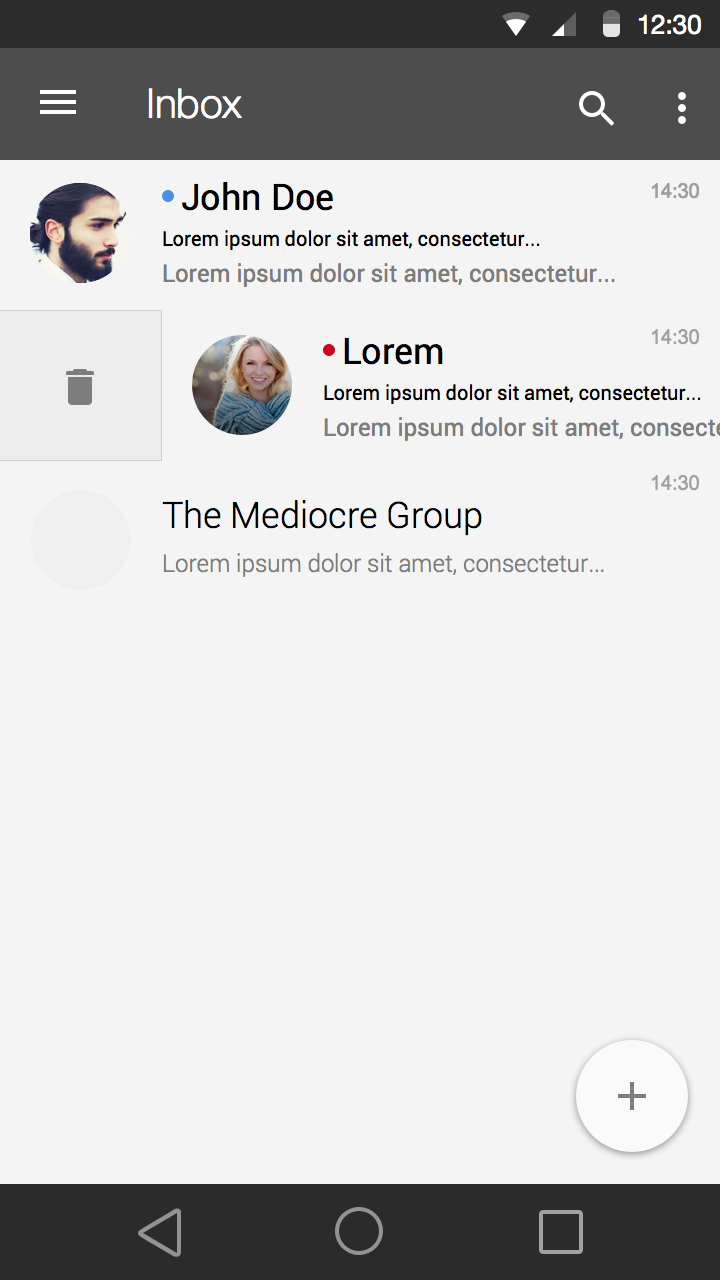
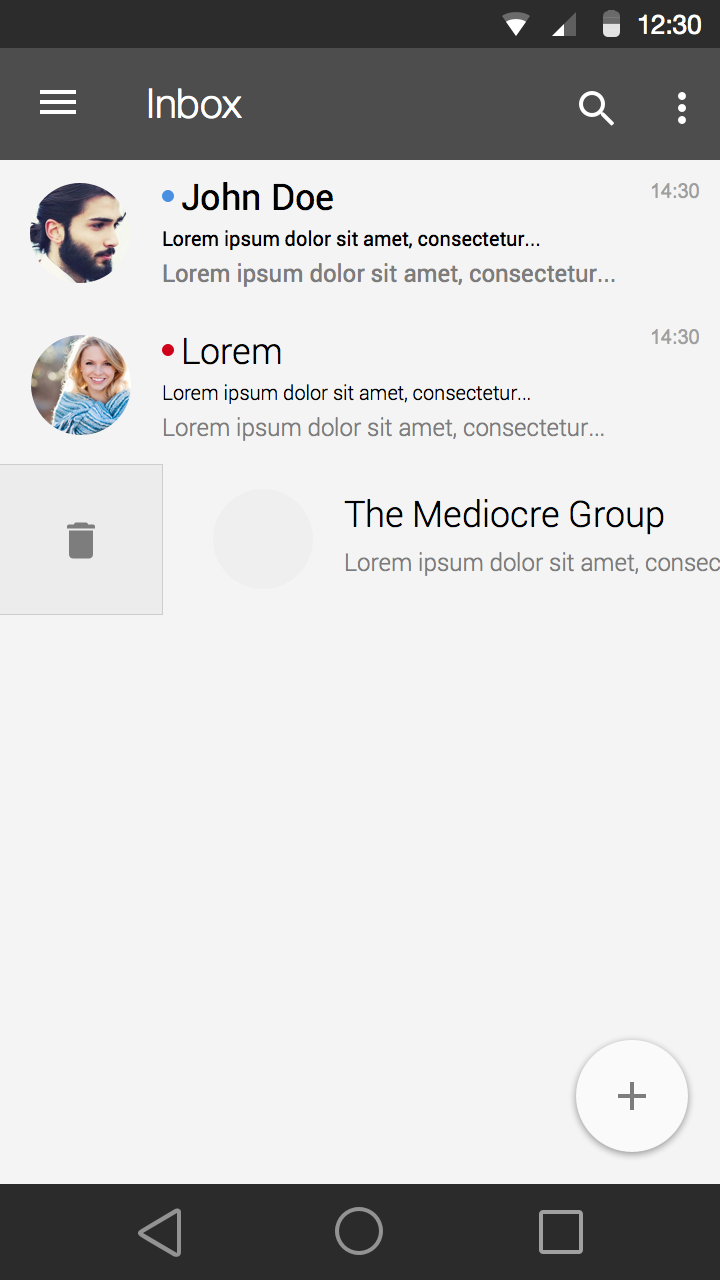
Bug Fix in mockup

diff --git a/doc/storyboard/index.html b/doc/storyboard/index.html
@@ -17,12 +17,14 @@
 						<a href="indexSearch.html"><div class="highlight" style="position:absolute;top: 40px;left: 318px;width: 30px;height: 30px;"></div></a>
 						<a href="newMessage.html"><div class="highlight" style="position:absolute;top: 573px;left: 317px;width: 66px;height: 68px;"></div></a>
 						<a href="GroupMessageOther.html"><div class="highlight" style="position:absolute;top: 260px;left: 0px;width: 400px;height: 80px;"></div></a>
+						<a href="indexSwipeLeft.html" style="color:blue;"><div style="position:absolute;top: 200px;left: 250px;width: 400px;height: 80px;">Swipe Left!</div></a>
+						<a href="indexSwipeRight.html" style="color:blue;"><div style="position:absolute;top: 280px;left: -250px;width: 400px;height: 80px;">Swipe Right!</div></a>
+						<a href="indexDelete.html" style="color:blue;"><div style="position:absolute;top: 300px;left: -320px;width: 400px;height: 80px;">Press and Hold the conversation!</div></a>
+
 					</div>
 					<div id="text"><h1>Tox Android Application Mockup</h1></div>
 					<a href="Call.html" style="color:blue;">Get a Call!</a>
-					<a href="indexSwipeLeft.html" style="color:blue;">Swipe Left!</a>
-					<a href="indexSwipeRight.html" style="color:blue;">Swipe Right!</a>
-					<a href="indexDelete.html" style="color:blue;">Press and Hold the conversation!</a>
+					
 
 					<input id="checkbox" type="checkbox"  checked>Highlight Touch Spots<br>
 				</div>

diff --git a/doc/storyboard/indexSettings.html b/doc/storyboard/indexSettings.html
@@ -13,8 +13,9 @@
 						<img id="centerIMG"src="img/Inbox Menu.png">
 						<a href="indexDrawer.html"><div class="highlight" style="position:absolute;top: 40px;left: 17px;width: 30px;height: 30px;"></div></a>
 						<a href="Message.html"><div class="highlight" style="position:absolute;top: 176px;left: 0px;width: 400px;height: 80px;"></div></a>
-						<a href="indexGroupID.html"><div class="highlight" style="position:absolute;top: 36px;left: 220px;width: 180px;height: 40px;"></div></a>
+						<a href="indexGroupID.html"><div class="highlight" style="position:absolute;top: 32px;left: 220px;width: 180px;height: 40px;"></div></a>
 						<a href="indexDelete.html"><div class="highlight" style="position:absolute;top: 76px;left: 220px;width: 180px;height: 40px;"></div></a>
+						<a href="GroupMessage.html"><div class="highlight" style="position:absolute;top: 260px;left: 0px;width: 400px;height: 80px;"></div></a>
 					</div>
 					<div id="text"><h1>Tox Android Application Mockup</h1></div>
 					<a href="Call.html" style="color:blue;">Get a Call!</a>

diff --git a/doc/storyboard/indexDelete.html b/doc/storyboard/indexDelete.html
@@ -12,13 +12,9 @@
 					<div id="center">
 						<img id="centerIMG"src="img/Inbox Selected.png">
 						<a href="index.html"><div class="highlight" style="position:absolute;top: 40px;left: 17px;width: 30px;height: 30px;"></div></a>
-						<a href="indexAlternative.html"><div class="highlight" style="position:absolute;top: 40px;left: 358px;width: 30px;height: 30px;"></div></a>
+						<a href="indexAlternative.html"><div class="highlight" style="position:absolute;top: 42px;left: 354px;width: 30px;height: 30px;"></div></a>
 					</div>
 					<div id="text"><h1>Tox Android Application Mockup</h1></div>
-					<a href="Call.html" style="color:blue;">Get a Call!</a>
-					<a href="indexSwipeLeft.html" style="color:blue;">Swipe Left!</a>
-					<a href="indexSwipeRight.html" style="color:blue;">Swipe Right!</a>
-
 					<input id="checkbox" type="checkbox"  checked>Highlight Touch Spots<br>
 				</div>
 			</center>

diff --git a/doc/storyboard/indexSwipeRight.html b/doc/storyboard/indexSwipeRight.html
@@ -16,7 +16,8 @@
 						<a href="indexSettings.html"><div class="highlight" style="position:absolute;top: 40px;left: 358px;width: 30px;height: 30px;"></div></a>
 						<a href="newMessage.html"><div class="highlight" style="position:absolute;top: 573px;left: 317px;width: 66px;height: 68px;"></div></a>
 						<a href="GroupMessage.html"><div class="highlight" style="position:absolute;top: 260px;left: 0px;width: 400px;height: 80px;"></div></a>
-
+						<a href="indexAlternative.html"><div class="highlight" style="position:absolute;top: 260px;left: 0px;width: 90px;height: 80px;"></div></a>
+						<a href="index.html" style="color:blue;"><div style="position:absolute;top: 280px;left: -250px;width: 400px;height: 80px;">Swipe Left!</div></a>
 					</div>
 					<div id="text"><h1>Tox Android Application Mockup</h1></div>
 					<a href="Call.html" style="color:blue;">Get a Call!</a>

diff --git a/doc/storyboard/indexSwipeLeft.html b/doc/storyboard/indexSwipeLeft.html
@@ -16,7 +16,7 @@
 						<a href="indexSettings.html"><div class="highlight" style="position:absolute;top: 40px;left: 358px;width: 30px;height: 30px;"></div></a>
 						<a href="newMessage.html"><div class="highlight" style="position:absolute;top: 573px;left: 317px;width: 66px;height: 68px;"></div></a>
 						<a href="GroupMessage.html"><div class="highlight" style="position:absolute;top: 260px;left: 0px;width: 400px;height: 80px;"></div></a>
-
+						<a href="index.html" style="color:blue;"><div style="position:absolute;top: 200px;left: 250px;width: 400px;height: 80px;">Swipe Right!</div></a>
 					</div>
 					<div id="text"><h1>Tox Android Application Mockup</h1></div>
 					<a href="Call.html" style="color:blue;">Get a Call!</a>

diff --git a/doc/storyboard/newMessage.html b/doc/storyboard/newMessage.html
@@ -14,6 +14,8 @@
 						<a href="index.html"><div class="highlight" style="position:absolute;top: 669px;left: 74px;width: 30px;height: 30px;"></div></a>
 						<a href="index.html"><div class="highlight" style="position:absolute;top: 40px;left: 17px;width: 30px;height: 30px;"></div></a>
 						<a href="newMessageSearch.html"><div class="highlight" style="position:absolute; top: 90px;left: 17px;width: 370px;height: 50px;"></div></a>
+						<a href="newMessageAdded.html"><div class="highlight" style="position:absolute;top: 220px;left: 0px;width: 400px;height: 80px;"></div></a>
+
 					</div>
 					<div id="text"><h1>Tox Android Application Mockup</h1></div>
 					<input id="checkbox" type="checkbox"  checked>Highlight Touch Spots<br>
